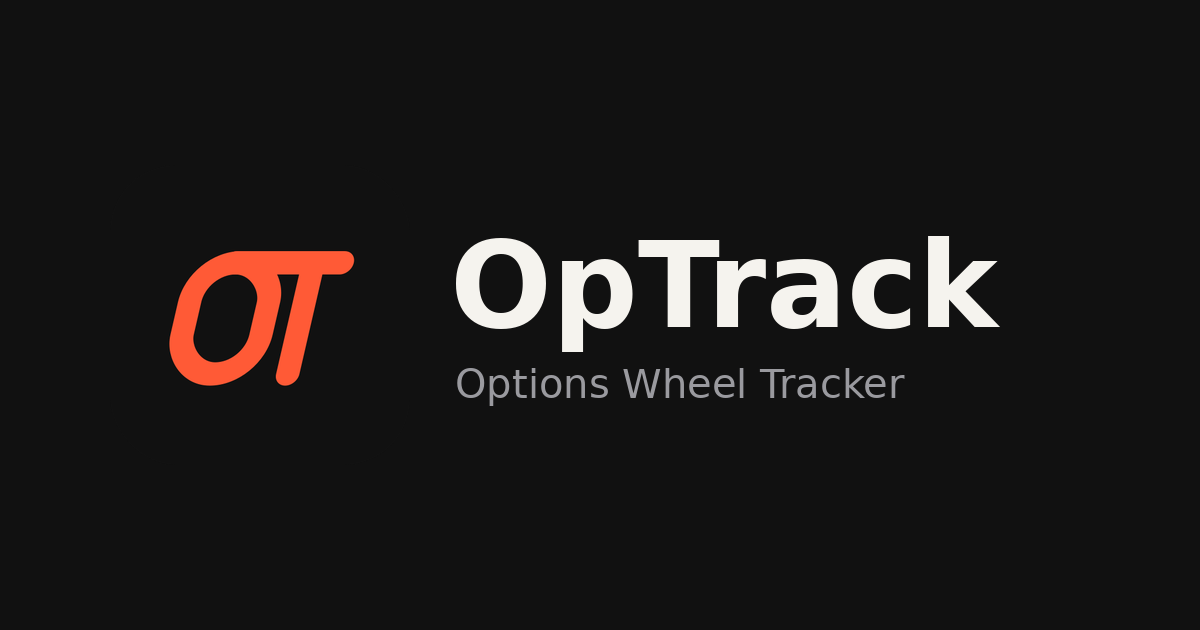
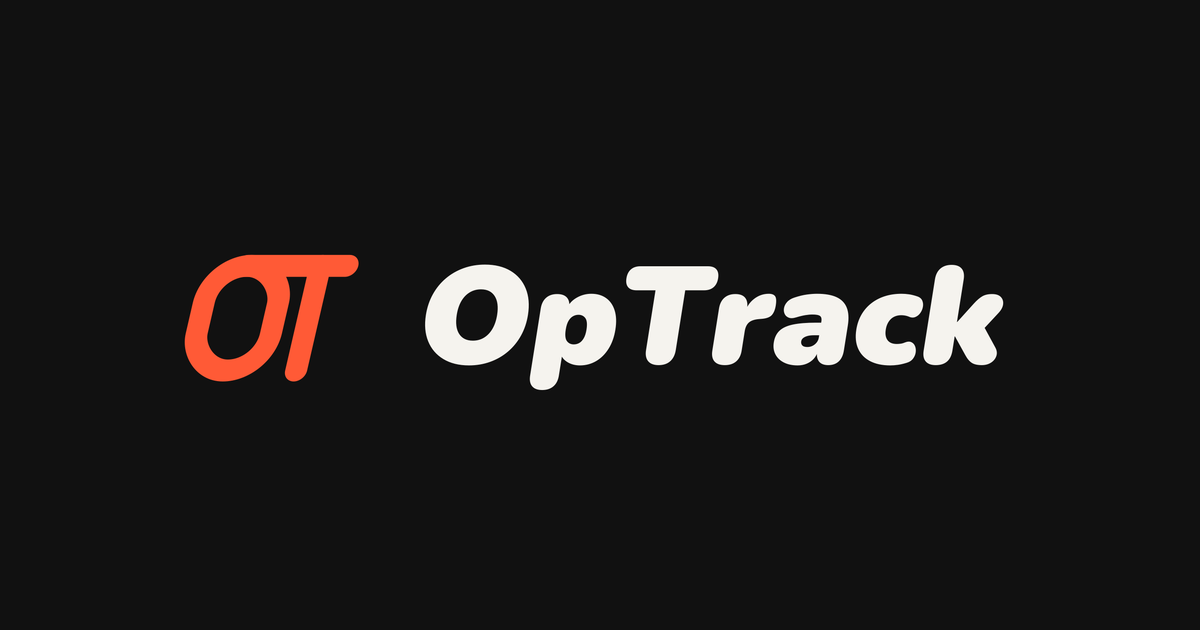
Final OpTrack wordmark on landing header + share image (sw v127)

Changed region(s): [[0.3392, 0.3619, 0.8325, 0.6333], [0.1233, 0.3921, 0.3083, 0.6333]]

diff --git a/app/landing.html b/app/landing.html
@@ -22,7 +22,7 @@
 :root{--bg:#111111;--card:#1C1C1E;--text:#F5F3EE;--text2:#c9c7c2;--text3:#9A9A9F;--line:#2c2c2f;--green:#FF5A36;--green2:rgba(255,90,54,.12);--profit:#3DDC84;--loss:#FF8A8A}
 *{box-sizing:border-box}body{margin:0;background:var(--bg);color:var(--text);font:16px/1.6 -apple-system,BlinkMacSystemFont,"Segoe UI",Roboto,Helvetica,Arial,sans-serif}
 a{color:var(--green)}.wrap{max-width:64rem;margin:0 auto;padding:0 1.25rem}
-header{display:flex;align-items:center;justify-content:space-between;padding:1rem 0}.logo{font-weight:700;font-size:1.125rem;display:flex;align-items:center;gap:.5rem}.logo img{width:1.75rem;height:1.75rem;display:block}
+header{display:flex;align-items:center;justify-content:space-between;padding:1rem 0}.logo{display:flex;align-items:center}.logo img{height:2.5rem;width:auto;display:block}.vh{position:absolute;width:1px;height:1px;overflow:hidden;clip:rect(0 0 0 0)}
 .btn{display:inline-block;padding:.75rem 1.25rem;border-radius:.5rem;text-decoration:none;font-weight:600;font-size:.95rem}.btn.p{background:var(--green);color:#111111}.btn.g{border:1px solid var(--line);color:var(--text);background:var(--card)}
 .hero{padding:2rem 0 1rem}.hero h1{font-size:2rem;line-height:1.2;margin:0 0 .75rem;letter-spacing:-.02em}.hero p{color:var(--text2);font-size:1.075rem;max-width:38rem}
 .cta{display:flex;gap:.625rem;flex-wrap:wrap;margin:1.25rem 0}.small{font-size:.8rem;color:var(--text3)}
@@ -39,7 +39,7 @@ footer{margin:3rem 0 2rem;color:var(--text3);font-size:.85rem;display:flex;gap:1
 </head>
 <body>
 <div class="wrap">
-  <header><div class="logo"><img src="logo-mark.svg" alt="" width="28" height="28"><span data-brand="name">OpTrack</span></div><a class="btn g" href="/app/" id="signin-top">Sign in</a></header>
+  <header><div class="logo"><img src="logo-horizontal.svg" alt="OpTrack" width="128" height="40"><span class="vh" data-brand="name">OpTrack</span></div><a class="btn g" href="/app/" id="signin-top">Sign in</a></header>
 
   <section class="hero">
     <h1>The options wheel tracker I wanted, so I built it.</h1>

diff --git a/app/sw.js b/app/sw.js
@@ -1,9 +1,9 @@
 // WheelHouse service worker. Bump CACHE on every release.
-const CACHE='optrack-v126';
+const CACHE='optrack-v127';
 // Caches from earlier app names, deleted on update. Only the service-worker cache: your data and settings are untouched.
 const LEGACY = ['wheelhouse-'];
 const SHELL = './index.html'; // the app itself (served at /app/); '/' is now the landing page
-const STATIC = [SHELL, './landing.html', './manifest.json', './brand.js', './analytics.js', './legal.html', './favicon.ico', './apple-touch-icon.png', './icon-192.png', './icon-512.png', './icon-maskable-192.png', './icon-maskable-512.png', './logo-mark.svg'];
+const STATIC = [SHELL, './landing.html', './manifest.json', './brand.js', './analytics.js', './legal.html', './favicon.ico', './apple-touch-icon.png', './icon-192.png', './icon-512.png', './icon-maskable-192.png', './icon-maskable-512.png', './logo-mark.svg', './logo-horizontal.svg'];
 
 self.addEventListener('install', e => {
   e.waitUntil(caches.open(CACHE).then(c => c.addAll(STATIC)).then(() => self.skipWaiting()));

diff --git a/app/brand.js b/app/brand.js
@@ -11,7 +11,7 @@ window.BRAND = {
   siteUrl: 'https://wheelhouse-tracker.netlify.app',   // placeholder until a domain is bought (optrack.app / getoptrack.com)
   shareImage: 'optrack-share.png',
   icons: { favicon: 'favicon.ico', apple: 'apple-touch-icon.png', i16: 'icon-16.png', i32: 'icon-32.png', i192: 'icon-192.png', i512: 'icon-512.png',
-           m192: 'icon-maskable-192.png', m512: 'icon-maskable-512.png', mark: 'logo-mark.svg' },   // wordmark (logo-horizontal) to come
+           m192: 'icon-maskable-192.png', m512: 'icon-maskable-512.png', mark: 'logo-mark.svg', horizontal: 'logo-horizontal.svg' },
   supportEmail: '',                   // set before going public
 
   // ── Plans and payments. Gating is OFF: everyone gets everything until Marc sets gating: true.
